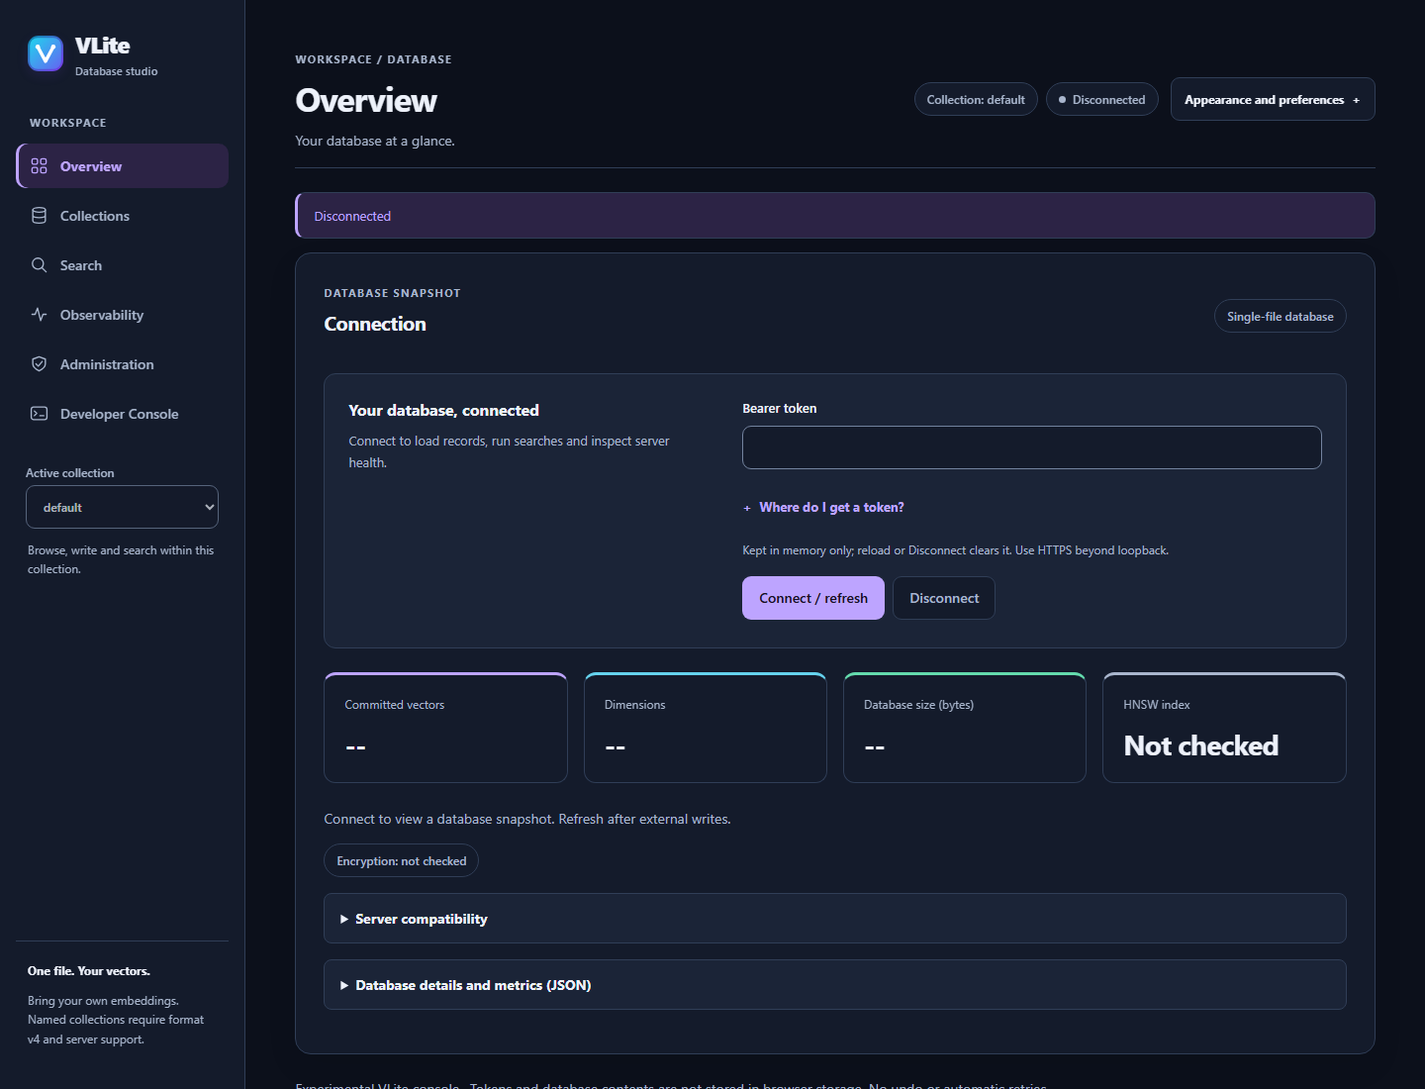
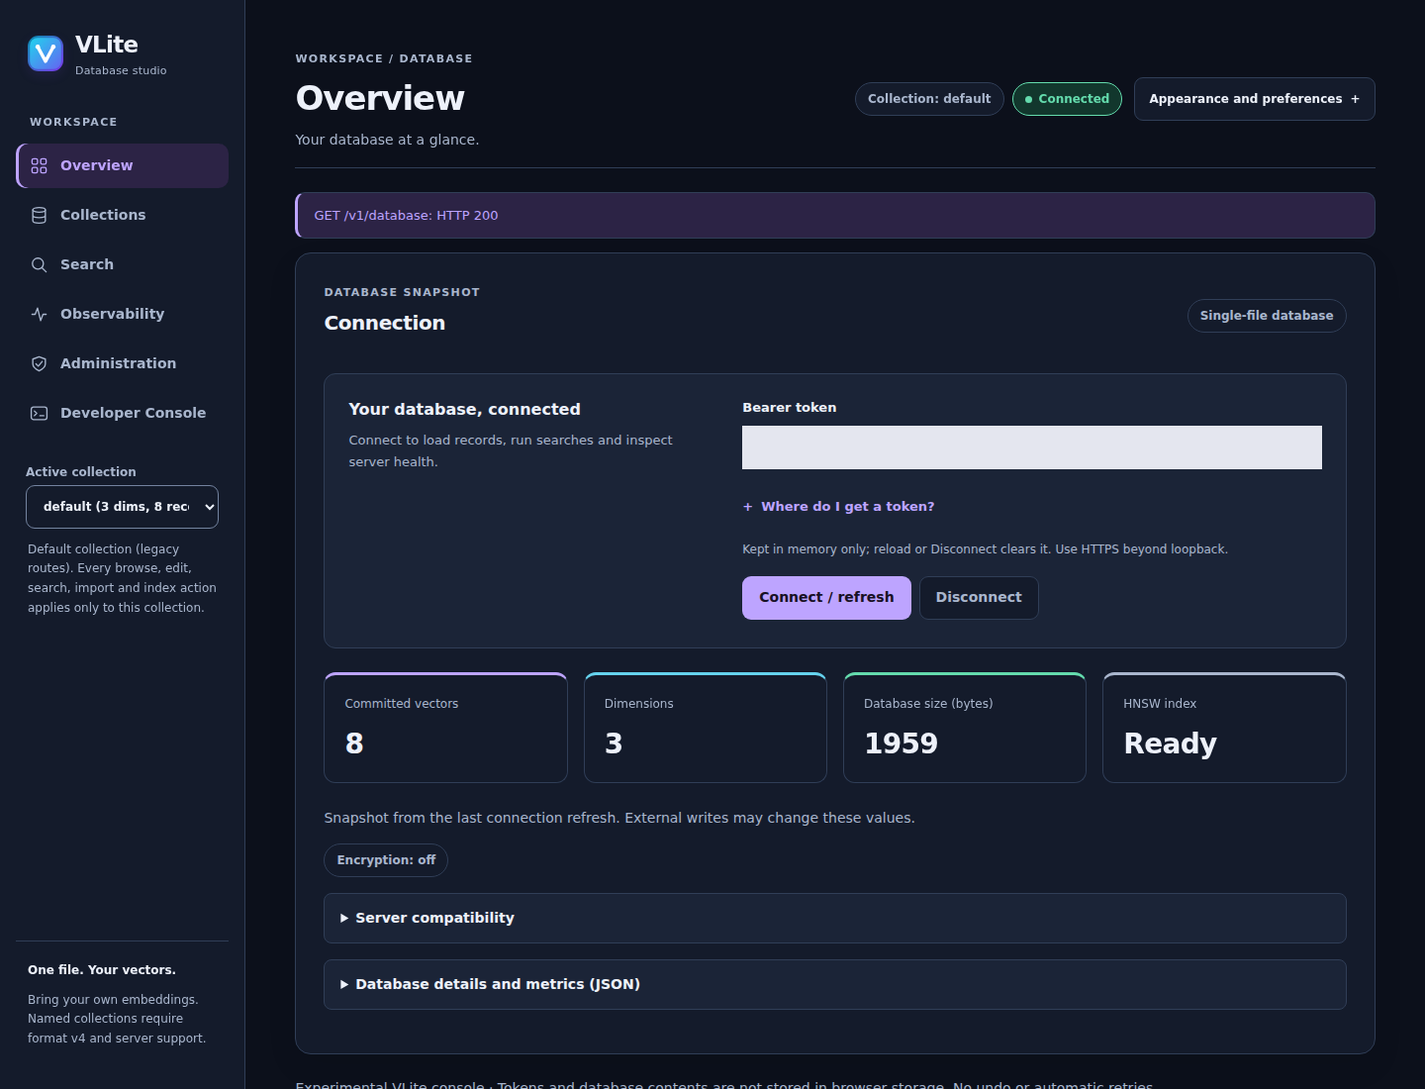
Publish one connected dashboard tour covering data and admin workflows

diff --git a/site/dashboard.html b/site/dashboard.html
@@ -7,7 +7,7 @@
   <meta name="description" content="Run the VLite Dashboard locally: collection workspaces, vector search, record inspection, metrics and live logs.">
   <link rel="icon" href="assets/logo.svg" type="image/svg+xml">
   <link rel="stylesheet" href="assets/style.css">
-  <script src="assets/site.js?v=current-tour-3"></script>
+  <script src="assets/site.js?v=connected-tour-1"></script>
 </head>
 <body class="dashboard-product">
 <header class="nav">
@@ -50,39 +50,21 @@
     <div class="wrap">
       <div class="section-head">
         <div class="kicker">Inside the dashboard</div>
-        <h2>Your workspace, at a glance</h2>
-        <p>Browse your data, manage connections and make the workspace your own.</p>
+        <h2>One tour. Every workspace.</h2>
+        <p>Follow a connected example database through collections, records, search, monitoring and administration.</p>
       </div>
       <figure class="dashboard-tour dashboard-guided-tour" data-guided-tour>
-        <a href="assets/dashboard/current-overview-light.png" data-tour-full>
-          <img id="dashboard-guided-tour" src="assets/dashboard/current-overview-light.png" alt="VLite overview with connection controls and database snapshot cards." width="1440" height="1100" decoding="async">
+        <a href="assets/dashboard/current-overview-light.png?v=connected" data-tour-full>
+          <img id="dashboard-guided-tour" src="assets/dashboard/current-overview-light.png?v=connected" alt="Connected VLite overview showing sample records and database status." width="1440" height="1100" decoding="async">
         </a>
-        <figcaption><h3>Take a quick look around</h3><p data-tour-caption>Overview: connect to your database and see its status.</p></figcaption>
+        <figcaption><h3>From your first connection to daily operations</h3><p data-tour-caption>Overview: see a connected database, record count and index readiness.</p><p>Sample data in a real API-backed workspace. Pause to inspect a view or jump to a workflow.</p></figcaption>
         <div class="tour-controls" hidden>
           <button class="btn" type="button" data-tour-toggle aria-controls="dashboard-guided-tour" aria-pressed="false">Play tour</button>
           <button class="btn" type="button" data-tour-next aria-controls="dashboard-guided-tour">Next view</button>
-          <span data-tour-position>1 / 4</span>
+          <label>Choose a step <select data-tour-step aria-controls="dashboard-guided-tour"></select></label>
+          <span data-tour-position>1 / 26</span>
         </div>
       </figure>
-      <div class="dashboard-tours">
-        <figure class="dashboard-tour">
-          <a href="assets/dashboard/current-overview-light.png">
-            <picture>
-              <source media="(prefers-color-scheme: dark)" srcset="assets/dashboard/current-overview-dark.png">
-              <img src="assets/dashboard/current-overview-light.png" data-light="assets/dashboard/current-overview-light.png" data-dark="assets/dashboard/current-overview-dark.png" alt="Current VLite overview with modern sidebar, connection panel, snapshot cards and sticky top-bar preferences; disconnected, with no database loaded." width="1440" height="1100" loading="lazy" decoding="async">
-            </picture>
-          </a>
-          <figcaption><h3>A clearer workspace</h3><p>Six focused views, light and dark themes, and appearance controls that stay within reach.</p><p><a href="assets/dashboard/current-overview-light.png">Light screenshot</a> &middot; <a href="assets/dashboard/current-overview-dark.png">Dark screenshot</a></p></figcaption>
-        </figure>
-        <figure class="dashboard-tour">
-          <a href="assets/dashboard/current-token-help.png"><img src="assets/dashboard/current-token-help.png" alt="Expanded Where do I get a token help beside the empty connection field, with Docker, devbox and administrator instructions." width="1440" height="1100" loading="lazy" decoding="async"></a>
-          <figcaption><h3>Connect without guesswork</h3><p>Token instructions are beside the field, with guidance for local and shared servers.</p></figcaption>
-        </figure>
-        <figure class="dashboard-tour">
-          <a href="assets/dashboard/current-preferences.png"><img src="assets/dashboard/current-preferences.png" alt="Dark dashboard with Appearance and preferences expanded from the sticky top-right header." width="1440" height="1100" loading="lazy" decoding="async"></a>
-          <figcaption><h3>Your preferences, always nearby</h3><p>Choose theme and density from the sticky header in any workspace.</p></figcaption>
-        </figure>
-      </div>
     </div>
   </section>
   <section id="start">

diff --git a/site/assets/site.js b/site/assets/site.js
@@ -64,9 +64,31 @@
     const motion = window.matchMedia("(prefers-reduced-motion: reduce)");
     document.querySelectorAll("[data-guided-tour]").forEach((figure) => {
       const frames = [
-        ["current-overview-light.png", "Overview: connect to your database and see its status."],
+        ["current-overview-light.png", "Overview: see a connected database, record count and index readiness."],
         ["current-token-help.png", "Connection help: find the token for your server."],
-        ["current-overview-dark.png", "Dark theme: choose the appearance that suits you."],
+        ["current-collections.png", "Collections: organize vector spaces and choose their search settings."],
+        ["current-records.png", "Browse: explore stored records and their typed metadata."],
+        ["current-payload.png", "Payload: open a record and read its stored content."],
+        ["current-metadata.png", "Metadata: inspect the fields used for filtering and grouping."],
+        ["current-vector.png", "Vectors: inspect the numeric embedding behind a record."],
+        ["current-write.png", "Write: prepare records, review validation and explicitly confirm changes."],
+        ["current-index.png", "Indexes: inspect HNSW readiness and manage rebuilds."],
+        ["current-search.png", "Search: run a vector query and compare ranked neighbors."],
+        ["current-hybrid.png", "Hybrid search: combine vector similarity with text matches."],
+        ["current-retrieval.png", "Advanced retrieval: recommend neighbors and count metadata facets."],
+        ["current-explore.png", "Explore: compare records and inspect a sampled vector projection."],
+        ["current-import.png", "Import and export: validate a sample file before committing records."],
+        ["current-observability.png", "Observability: inspect real request metrics, routes and server logs."],
+        ["current-feed.png", "Change feed: inspect committed events and page through their history."],
+        ["current-administration.png", "Administration: inspect server health and manage operational controls."],
+        ["current-backups.png", "Backups: inspect a consistent snapshot and available restore controls."],
+        ["current-credentials.png", "Credentials: issue limited access, rotate secrets and inspect audit history."],
+        ["current-tenants.png", "Tenants: create isolated namespaces and set their vector limits."],
+        ["current-automation.png", "Automation: inspect and configure scheduled index maintenance."],
+        ["current-webhooks.png", "Webhooks: manage change notifications and inspect delivery status."],
+        ["current-tls.png", "TLS certificates: reload configured files; this HTTP demo explains why reload is unavailable."],
+        ["current-replication.png", "Replication: export a bounded log segment for a separately managed replica."],
+        ["current-developer.png", "Developer Console: explore requests, responses and API examples."],
         ["current-preferences.png", "Preferences: change theme and spacing from the top bar."],
       ];
       const image = figure.querySelector("img");
@@ -75,17 +97,25 @@
       const toggle = figure.querySelector("[data-tour-toggle]");
       const next = figure.querySelector("[data-tour-next]");
       const position = figure.querySelector("[data-tour-position]");
+      const step = figure.querySelector("[data-tour-step]");
+      frames.forEach((frame, number) => {
+        const option = document.createElement("option");
+        option.value = String(number);
+        option.textContent = `${number + 1}. ${frame[1].split(":")[0]}`;
+        step.append(option);
+      });
       let index = 0;
       let enabled = !motion.matches;
       let visible = false;
       let timer;
       let failed = false;
       const show = () => {
-        image.src = `assets/dashboard/${frames[index][0]}`;
+        image.src = `assets/dashboard/${frames[index][0]}?v=connected`;
         image.alt = frames[index][1];
         link.href = image.src;
         caption.textContent = frames[index][1];
         position.textContent = `${index + 1} / ${frames.length}`;
+        step.value = String(index);
       };
       const update = () => {
         clearTimeout(timer);
@@ -114,6 +144,13 @@
         enabled = false;
         failed = false;
         index = (index + 1) % frames.length;
+        show();
+        update();
+      });
+      step.addEventListener("change", () => {
+        enabled = false;
+        failed = false;
+        index = Number(step.value);
         show();
         update();
       });

diff --git a/site/index.html b/site/index.html
@@ -138,7 +138,7 @@ powershell -NoProfile -ExecutionPolicy Bypass -File .\devbox.ps1 -Token
         <p>Browse collections, inspect records and run searches in your own VLite dashboard.</p>
       </div>
       <figure class="landing-shot">
-        <a href="dashboard.html#screenshots"><picture><source media="(prefers-color-scheme: dark)" srcset="assets/dashboard/current-overview-dark.png"><img src="assets/dashboard/current-overview-light.png" data-light="assets/dashboard/current-overview-light.png" data-dark="assets/dashboard/current-overview-dark.png" alt="VLite dashboard overview with sidebar navigation, connection controls and appearance preferences." width="1440" height="1100" loading="lazy" decoding="async"></picture></a>
+        <a href="dashboard.html#screenshots"><picture><source media="(prefers-color-scheme: dark)" srcset="assets/dashboard/current-overview-dark.png?v=connected"><img src="assets/dashboard/current-overview-light.png?v=connected" data-light="assets/dashboard/current-overview-light.png?v=connected" data-dark="assets/dashboard/current-overview-dark.png?v=connected" alt="Connected VLite dashboard with sample records, database snapshot cards and index readiness." width="1440" height="1100" loading="lazy" decoding="async"></picture></a>
         <figcaption>Your connections, records and searches in one workspace. <a href="dashboard.html">Take the tour and set up your dashboard &#8594;</a></figcaption>
       </figure>
     </div>

diff --git a/site/assets/style.css b/site/assets/style.css
@@ -4,6 +4,8 @@
 .tour-controls { display: flex; flex-wrap: wrap; align-items: center; gap: 12px; }
 .tour-controls[hidden] { display: none; }
 .tour-controls button { min-height: 44px; }
+.tour-controls label { display: grid; gap: 4px; min-width: 0; max-width: 100%; }
+.tour-controls select { min-height: 44px; max-width: 100%; padding: 8px; font: inherit; color: var(--text); background: var(--card); border: 1px solid var(--border); border-radius: 8px; }
 .docs-main img { display: block; max-width: 100%; height: auto; border: 1px solid var(--border); border-radius: 12px; }
 .feature-catalog section { padding: 0 0 36px; scroll-margin-top: 100px; }
 .feature-catalog th:first-child, .feature-catalog td:first-child { width: 30%; }

diff --git a/tests/dashboard_tours.py b/tests/dashboard_tours.py
@@ -6,6 +6,8 @@ Requires tests/requirements-dashboard.txt.
 
 from functools import partial
 from http.server import SimpleHTTPRequestHandler, ThreadingHTTPServer
+import hashlib
+import json
 from pathlib import Path
 import sys
 from threading import Thread
@@ -22,10 +24,32 @@ def check(root):
     html = (root / "dashboard.html").read_text(encoding="utf-8")
     assert "Earlier release tours" not in html
     assert "records-tour" not in html and "search-tour" not in html
-    frames = ("current-overview-light.png", "current-token-help.png",
-              "current-overview-dark.png", "current-preferences.png")
+    frames = (
+        "current-overview-light.png", "current-token-help.png", "current-collections.png",
+        "current-records.png", "current-payload.png", "current-metadata.png",
+        "current-vector.png", "current-write.png", "current-index.png",
+        "current-search.png", "current-hybrid.png", "current-retrieval.png",
+        "current-explore.png", "current-import.png", "current-observability.png", "current-feed.png",
+        "current-administration.png", "current-backups.png", "current-credentials.png",
+        "current-tenants.png", "current-automation.png", "current-webhooks.png",
+        "current-tls.png", "current-replication.png", "current-developer.png",
+        "current-preferences.png",
+    )
+    assets = root / "assets" / "dashboard"
+    manifest = json.loads((assets / "connected-captures.json").read_text())
+    assert manifest["connected"] and manifest["record_count"] >= 8
+    assert manifest["format_version"] >= 5
+    assert {capture["workspace"] for capture in manifest["captures"]} == {
+        "Overview", "Collections", "Search", "Observability", "Administration", "Developer Console",
+    }
+    source = Path(__file__).resolve().parents[1] / "src" / "dashboard"
+    for filename, checksum in manifest["source_assets"].items():
+        assert hashlib.sha256((source / filename).read_text(encoding="utf-8").encode()).hexdigest() == checksum, (
+            f"Recapture the connected tour after changing dashboard asset {filename}")
+    captures = {capture["file"]: capture for capture in manifest["captures"]}
     for frame in frames:
-        assert (root / "assets" / "dashboard" / frame).is_file()
+        assert hashlib.sha256((assets / frame).read_bytes()).hexdigest() == captures[frame]["sha256"]
+    assert len({captures[frame]["sha256"] for frame in frames}) == len(frames)
     server = ThreadingHTTPServer(("127.0.0.1", 0), partial(QuietHandler, directory=str(root)))
     thread = Thread(target=server.serve_forever, daemon=True)
     thread.start()
@@ -44,7 +68,7 @@ def check(root):
                 toggle = page.locator("[data-tour-toggle]")
                 image.scroll_into_view_if_needed()
                 expect(toggle).to_have_text("Pause tour")
-                expect(image).to_have_attribute("src", "assets/dashboard/" + frames[1], timeout=5000)
+                expect(image).to_have_attribute("src", "assets/dashboard/" + frames[1] + "?v=connected", timeout=5000)
                 toggle.click()
                 expect(toggle).to_have_text("Play tour")
                 paused = image.get_attribute("src")
@@ -52,10 +76,24 @@ def check(root):
                 expect(image).to_have_attribute("src", paused)
                 page.locator("[data-tour-next]").click()
                 assert image.get_attribute("src") != paused
+                expect(page.locator("[data-tour-step] option")).to_have_count(len(frames))
                 assert page.evaluate("document.documentElement.scrollWidth <= innerWidth")
+                if width == 1440:
+                    assert page.locator("[data-guided-tour]").count() == 1
+                    assert page.locator(".dashboard-tours").count() == 0
+                    for number, frame in enumerate(frames):
+                        page.locator("[data-tour-step]").select_option(str(number))
+                        expect(toggle).to_have_text("Play tour")
+                        expect(image).to_have_attribute("src", "assets/dashboard/" + frame + "?v=connected")
+                        page.wait_for_function("img => img.complete && img.naturalWidth === 1440",
+                                               arg=image.element_handle())
+                        expect(page.locator("[data-tour-position]")).to_have_text(f"{number + 1} / {len(frames)}")
+                        assert page.locator("[data-tour-full]").get_attribute("href").endswith(frame + "?v=connected")
                 page.goto(base + "/docs/CONSOLE.html")
                 for screenshot in page.locator(".docs-main img").all():
                     screenshot.scroll_into_view_if_needed()
+                    page.wait_for_function("img => img.complete && img.naturalWidth > 0",
+                                           arg=screenshot.element_handle())
                     screenshot.evaluate("img => img.decode()")
                     assert screenshot.evaluate("img => img.naturalWidth === 1440")
                 assert page.evaluate("document.documentElement.scrollWidth <= innerWidth")
@@ -87,7 +125,7 @@ def check(root):
             static = fallback.new_page()
             static.goto(base + "/dashboard.html")
             expect(static.locator("#dashboard-guided-tour")).to_have_attribute(
-                "src", "assets/dashboard/" + frames[0])
+                "src", "assets/dashboard/" + frames[0] + "?v=connected")
             expect(static.locator(".tour-controls")).to_be_hidden()
             fallback.close()
             context.close()
@@ -96,7 +134,7 @@ def check(root):
         server.shutdown()
         server.server_close()
         thread.join()
-    print("Current screenshot tour: autoplay, pause, next, motion, offscreen, no-JS and guide images passed.")
+    print("Connected 26-step tour: six workspaces, unique verified captures, autoplay, step selection, pause, motion, offscreen, no-JS and guide images passed.")
 
 
 if __name__ == "__main__":

diff --git a/scripts/capture_dashboard_screenshots.py b/scripts/capture_dashboard_screenshots.py
@@ -1,8 +1,9 @@
-"""Capture the current dashboard's public, disconnected UI without credentials.
+"""Capture disconnected UI for diagnostics, not the public guided tour.
 
-Usage: python scripts/capture_dashboard_screenshots.py [dashboard-url]
+Usage: python scripts/capture_dashboard_screenshots.py <output-directory> [dashboard-url]
 Requires the existing tests/requirements-dashboard.txt browser tooling.
 Start the current dashboard container first. No API requests or writes are allowed.
+For website images, use the hosted dashboard-capture.yml connected workflow.
 """
 
 from pathlib import Path
@@ -11,8 +12,10 @@ import sys
 from playwright.sync_api import expect, sync_playwright
 
 
-def capture(base):
-    output = Path(__file__).resolve().parents[1] / "site" / "assets" / "dashboard"
+def capture(output, base):
+    website = Path(__file__).resolve().parents[1] / "site"
+    if output == website or website in output.parents:
+        raise ValueError("Disconnected diagnostics must not replace connected website screenshots")
     output.mkdir(parents=True, exist_ok=True)
     with sync_playwright() as p:
         browser = p.chromium.launch()
@@ -63,4 +66,6 @@ def capture(base):
 
 
 if __name__ == "__main__":
-    capture(sys.argv[1] if len(sys.argv) > 1 else "http://127.0.0.1:8081")
+    if len(sys.argv) not in (2, 3):
+        raise SystemExit(__doc__)
+    capture(Path(sys.argv[1]).resolve(), sys.argv[2] if len(sys.argv) > 2 else "http://127.0.0.1:8081")

diff --git a/tests/site_links.py b/tests/site_links.py
@@ -70,7 +70,7 @@ def check(root):
             if page.sections != ["screenshots", "start", "workflows"]:
                 errors.append("dashboard.html: expected tours, setup, then workflows")
             for name in ("current-overview-light.png",):
-                if f"assets/dashboard/{name}" not in page.links:
+                if f"assets/dashboard/{name}" not in [urlsplit(link).path for link in page.links]:
                     errors.append(f"dashboard.html: missing latest screenshot {name}")
             if "Earlier release tours" in " ".join(page.text):
                 errors.append("dashboard.html: remove historical dashboard tours")
@@ -101,7 +101,7 @@ def check(root):
                     errors.append(f"index.html: missing {mode} deployment diagram")
             if "deployment-options" not in page.ids:
                 errors.append("index.html: missing deployment-options anchor")
-            if "assets/dashboard/current-overview-light.png" not in page.links:
+            if "assets/dashboard/current-overview-light.png" not in [urlsplit(link).path for link in page.links]:
                 errors.append("index.html: dashboard preview must show the current interface")
             dashboard = pages.get(root / "dashboard.html")
             if dashboard:

diff --git a/docs/CONSOLE.md b/docs/CONSOLE.md
@@ -18,15 +18,27 @@ and Raw JSON tabs. Navigation reveals the selected view and any containing
 advanced panel. The Developer Console remains the dedicated `#requests` view
 for the request inspector, REST playground and read-only scenarios; its
 inspector shows the latest request only.
+Administration groups health/tokens, scoped credentials/audit, tenants,
+backup/restore, automation, webhooks/PITR, TLS certificates and replication
+export into focused views. Each view explains the required role and server
+configuration. See the [administration walkthrough](CONSOLE-ADMIN.md#dashboard-administration-walkthrough)
+for the available actions and host-only setup steps.
 The usual Create → Write → Query path is: review/create an empty collection in
 Settings, select it as active, write with the record editor or JSON documents,
 then query from Search.
 
 ## A look around
 
+The [dashboard tour](https://mahpate.github.io/Vlite/dashboard.html#screenshots)
+follows one connected sample database through all six workspaces: collections
+and settings, record browsing/inspection, writing, HNSW indexes, exact/hybrid
+search, live metrics/logs, administration/backups and the developer console.
+Pause playback or choose a step to inspect a workflow. Screenshots use
+synthetic records from a real isolated API server, not an empty disconnected UI.
+
 <picture>
-  <source media="(prefers-color-scheme: dark)" srcset="../site/assets/dashboard/current-overview-dark.png">
-  <img src="../site/assets/dashboard/current-overview-light.png" data-light="../site/assets/dashboard/current-overview-light.png" data-dark="../site/assets/dashboard/current-overview-dark.png" alt="Dashboard overview with navigation, connection controls and database snapshot cards." width="1440" height="1100">
+  <source media="(prefers-color-scheme: dark)" srcset="../site/assets/dashboard/current-overview-dark.png?v=connected">
+  <img src="../site/assets/dashboard/current-overview-light.png?v=connected" data-light="../site/assets/dashboard/current-overview-light.png?v=connected" data-dark="../site/assets/dashboard/current-overview-dark.png?v=connected" alt="Connected dashboard with sample records, navigation and database snapshot cards." width="1440" height="1100">
 </picture>
 
 Use the sidebar to switch workspaces. The top bar keeps your active collection,
@@ -49,13 +61,13 @@ value only, without the `Bearer` prefix.
 Treat tokens as secrets; do not include them in screenshots or logs. The dashboard
 cannot retrieve an administrator token.
 
-![Connection help with instructions for finding a bearer token](../site/assets/dashboard/current-token-help.png)
+![Connection help with instructions for finding a bearer token](../site/assets/dashboard/current-token-help.png?v=connected)
 
 ### Set your appearance
 
 Open **Appearance and preferences** in the top bar to choose your theme and spacing.
 
-![Appearance controls in the dashboard top bar](../site/assets/dashboard/current-preferences.png)
+![Appearance controls in the dashboard top bar](../site/assets/dashboard/current-preferences.png?v=connected)
 
 ## Studio workflow improvements
 

diff --git a/README.md b/README.md
@@ -427,8 +427,8 @@ The Python REST client is published as
 ## Browser dashboard
 
 <picture>
-  <source media="(prefers-color-scheme: dark)" srcset="site/assets/dashboard/current-overview-dark.png">
-  <img src="site/assets/dashboard/current-overview-light.png" alt="Current VLite dashboard overview with modern navigation, a connection panel and sticky-header preferences; disconnected, with no database loaded." width="1440" height="1100">
+  <source media="(prefers-color-scheme: dark)" srcset="site/assets/dashboard/current-overview-dark.png?v=connected">
+  <img src="site/assets/dashboard/current-overview-light.png?v=connected" alt="Connected VLite dashboard with sample records, database snapshot cards and index readiness." width="1440" height="1100">
 </picture>
 
 Overview with sticky-header preferences and connection help. See
